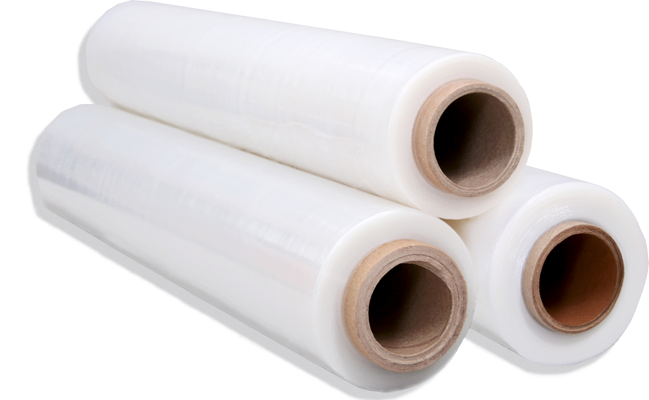
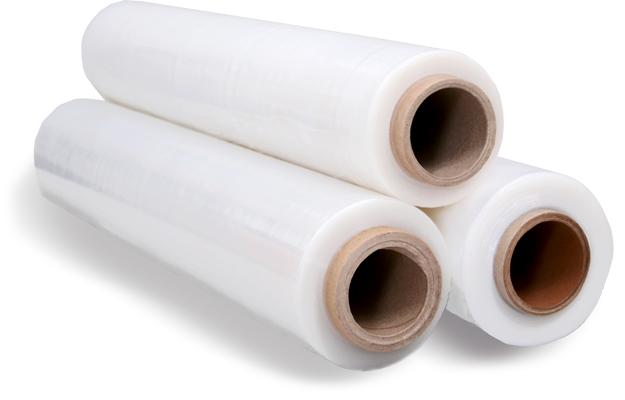
добавила тени картинкам, изменила номер тел.

diff --git a/index.html b/index.html
@@ -8,10 +8,10 @@ layout: default
 <hr class="featurette-divider">
 
 <div class="row featurette">
-  <div class="col-md-3">
-    <img class="featurette-image img-responsive" src="img/scotch_3.png" data-src="holder.js/427x400/auto" alt="427x400">
+  <div class="col-md-4">
+    <img class="featurette-image img-responsive" src="img/scotch_3.png" data-src="holder.js/562x400/auto" alt="562x400">
   </div>
-  <div class="col-md-9">
+  <div class="col-md-8">
     <h3 class="featurette-heading">СКОТЧ</h3>
     <p class="lead">
       {% include short_description/product.md %}
@@ -23,10 +23,10 @@ layout: default
 <hr class="featurette-divider">
 
 <div class="row featurette">
-  <div class="col-md-3">
-    <img class="featurette-image img-responsive" src="img/skotch_1.png" data-src="holder.js/250x250/auto" alt="250x250">
+  <div class="col-md-4">
+    <img class="featurette-image img-responsive" src="img/skotch_1.png" data-src="holder.js/615x400/auto" alt="615x400">
   </div>
-  <div class="col-md-9">
+  <div class="col-md-8">
     <h3 class="featurette-heading">МАЛЯРНЫЙ СКОТЧ</h3>
     <p class="lead">
       {% include short_description/product_tape.md %}
@@ -38,10 +38,10 @@ layout: default
 <hr class="featurette-divider">
 
 <div class="row featurette">
-  <div class="col-md-3">
-    <img class="featurette-image img-responsive" src="img/tape.png" data-src="holder.js/649x400/auto" alt="649x400">
+  <div class="col-md-4">
+    <img class="featurette-image img-responsive" src="img/tape.png" data-src="holder.js/625x400/auto" alt="625x400">
   </div>
-  <div class="col-md-9">
+  <div class="col-md-8">
     <h3 class="featurette-heading">СТРЕТЧ ПЛЕНКА</h3>
     <p class="lead">
       {% include short_description/product_stretch.md %}
@@ -54,10 +54,10 @@ layout: default
 <hr class="featurette-divider">
 
 <div class="row featurette">
-  <div class="col-md-3">
-    <img class="featurette-image img-responsive" src="img/skotch_logo.png" data-src="holder.js/494x400/auto" alt="494x400">
+  <div class="col-md-4">
+    <img class="featurette-image img-responsive" src="img/skotch_logo.png" data-src="holder.js/678x400/auto" alt="678x400">
   </div>
-  <div class="col-md-9">
+  <div class="col-md-8">
     <h3 class="featurette-heading">СКОТЧ С ЛОГОТИПОМ</h3>
     <p class="lead">
       {% include short_description/product_logo.md %}

diff --git a/_includes/footer.html b/_includes/footer.html
@@ -19,7 +19,7 @@
               <div>
                 Евгений:
                 <p itemprop="telephone">(062)213-18-07</p>
-                <p itemprop="telephone">(050)470-89-22</p>
+                <p itemprop="telephone">(066)306-52-11</p>
               </div>
             </div>
           </div>

diff --git a/css/application.css b/css/application.css
@@ -154,7 +154,7 @@ footer {
   color: #bfbdbd;
 }
 
-@media (min-width: 1200px) {
+@media (min-width: 500px) {
   .span4 {
    float: left;
    min-height: 1px;

diff --git a/_includes/short_description/product.md b/_includes/short_description/product.md
@@ -1,1 +1,1 @@
-Скотч — это универсальный паковочный материал, который используется как на производстве, так и в быту. Скотч является самым распространенным материалом для упаковки коробок из гофрокартона. Основой скотча является полипропиленовое полотно, поверх которого наносится слой клея. В зависимости от применения скотча варьируется толщина липкой ленты и состав клеевой основы. Существует скотч, покрытый клеем на основе воды (клей «Акриловый»), синтетического (клей «Hot Melt») или натурального каучука (клей «Solvent»).
+Скотч — это универсальный упаковочный материал, который используется как на производстве, так и в быту. Скотч является самым распространенным материалом для упаковки коробок из гофрокартона. Основой скотча является полипропиленовое полотно, поверх которого наносится слой клея. В зависимости от применения скотча варьируется толщина липкой ленты и состав клеевой основы. Существует скотч, покрытый клеем на основе воды (клей «Акриловый»), синтетического (клей «Hot Melt») или натурального каучука (клей «Solvent»).
